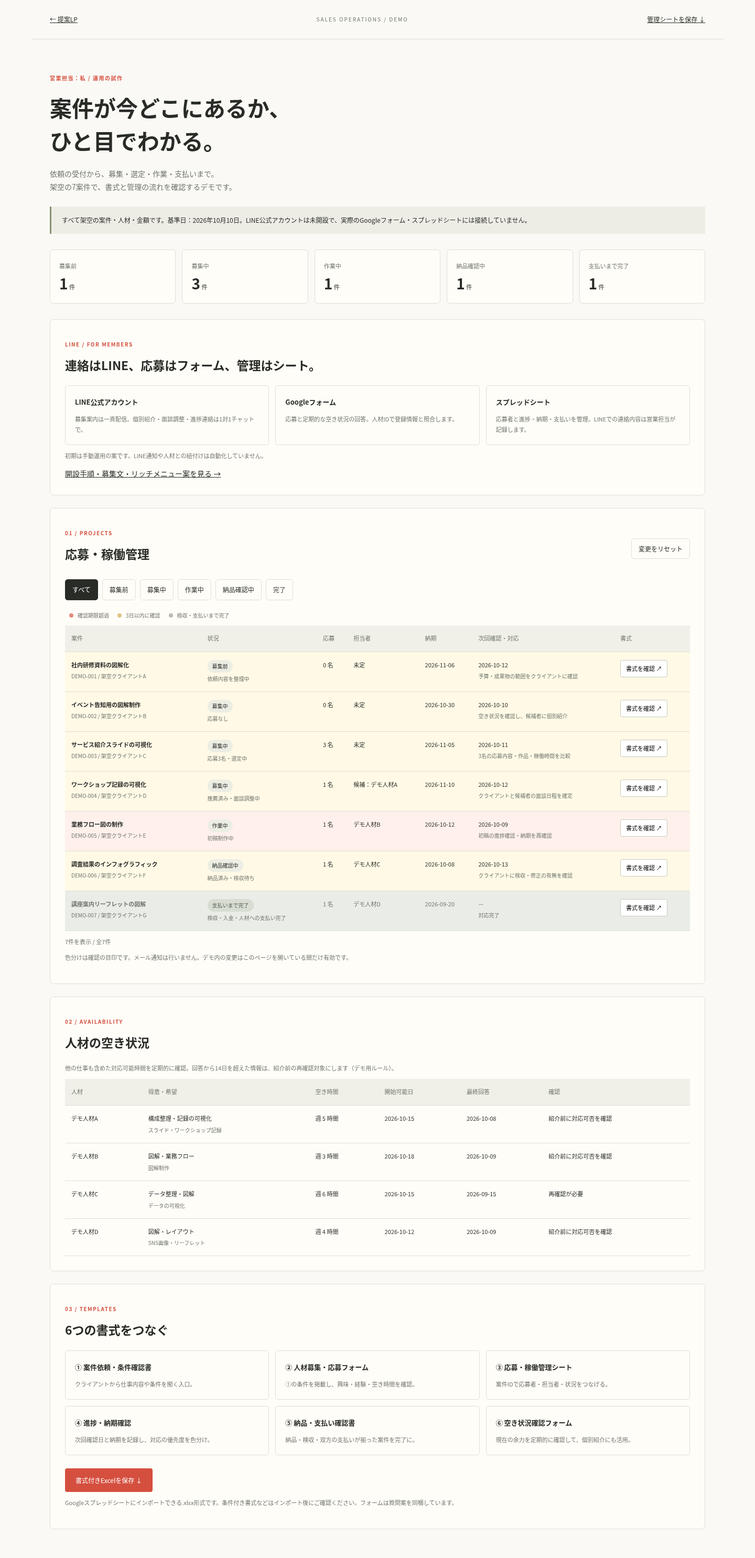
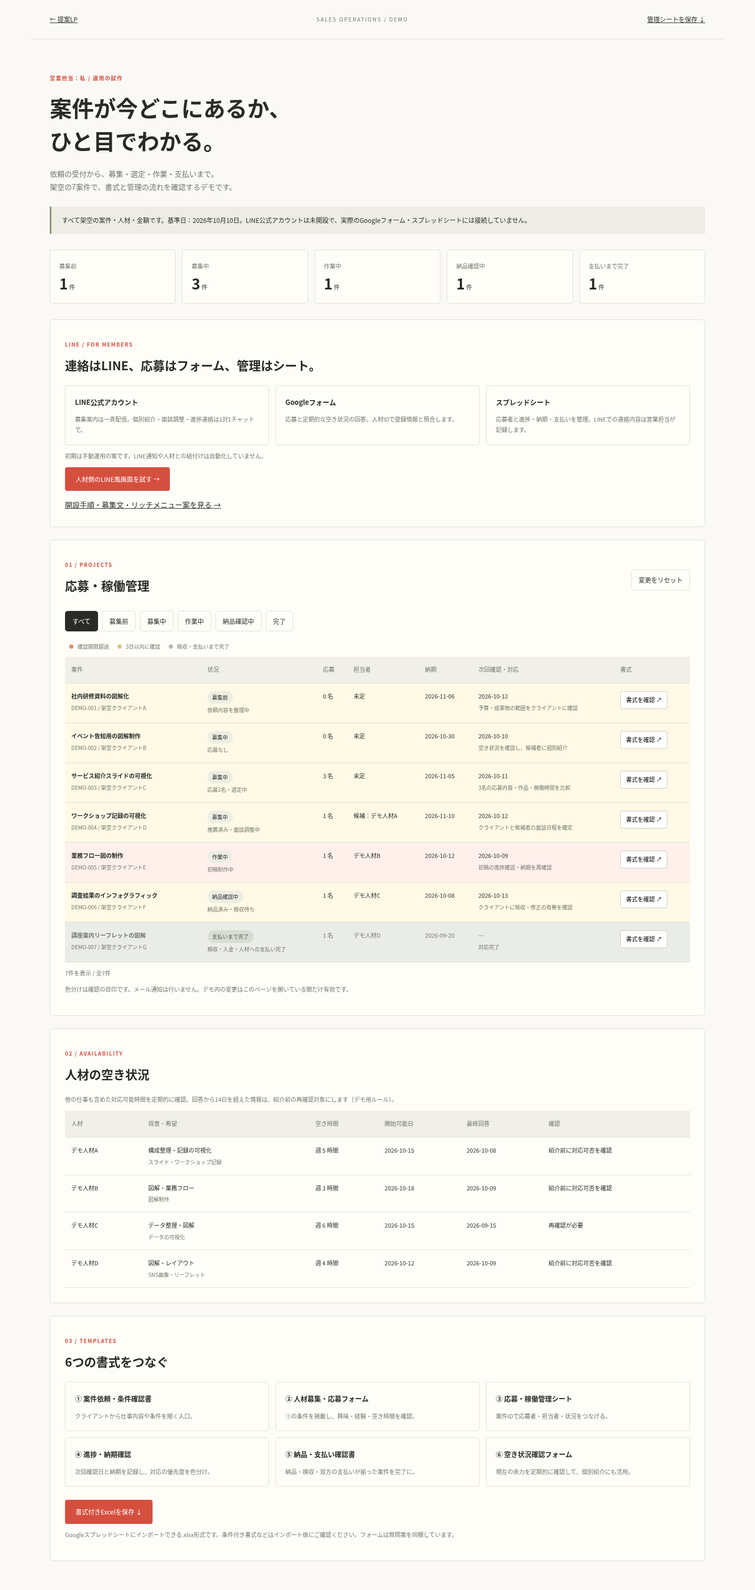
Add interactive LINE-style member conversation prototype

diff --git a/demo/line.js b/demo/line.js
@@ -1,0 +1,42 @@
+const messages = document.querySelector('#messages');
+const scroll = document.querySelector('#chat-scroll');
+const dialog = document.querySelector('#form-dialog');
+let currentScene='welcome';
+let applied=false;
+let interviewSelected=false;
+const escapeText=value=>String(value).replace(/[&<>"']/g,ch=>({'&':'&amp;','<':'&lt;','>':'&gt;','"':'&quot;',"'":'&#39;'}[ch]));
+const contexts={welcome:['友だち追加時の案内','窓口の役割を伝え、初回登録へ案内。リッチメニューから募集・空き状況更新・相談に進めます。'],recruit:['募集を見て、自分から応募','案件条件を確認し、フォームを開きます。デモでは応募後の受付案内までを固定文で再現します。'],interview:['営業担当が面談を調整','クライアントと人材の間に入り、日時・確認事項を調整します。候補日時のボタンを押してみてください。'],progress:['進捗・納期を個別に確認','営業担当がLINEで進捗を聞き、回答の要点を管理シートへ記録する想定です。'],payment:['納品と、支払い完了を共有','納品・検収・入金・人材への支払いを確認してから案件を完了にします。ここでは連絡文の例を表示します。']};
+function addMessage(html,outgoing=false){const element=document.createElement('div');element.className='message'+(outgoing?' outgoing':'');element.innerHTML=`${outgoing?'':'<span class="avatar" aria-hidden="true">✳</span>'}<div class="message-body">${outgoing?'':'<div class="sender">可視化のお仕事窓口</div>'}<div class="bubble">${html}</div><span class="timestamp">${outgoing?'デモ入力 · ':'固定の例 · '}9:41</span></div>`;messages.append(element);scroll.scrollTop=scroll.scrollHeight;}
+function jobMessage(){return '<span class="job-tag">募集の例 / DEMO-003</span><strong class="job-title">サービス紹介スライドの可視化</strong><p>紹介スライド8枚を、わかりやすく図解にするお仕事です。</p><p class="job-meta">必要スキル：構成整理・スライド制作<br>案件予算：60,000円（架空）<br>人材への報酬：相談して決定<br>納期：2026年11月5日<br>想定稼働：週5時間程度<br>応募締切：2026年10月14日</p><button data-action="apply">詳細を確認して、応募する ↗</button><p class="caution">導入前の募集文例です。本番配信前に人材への報酬・税・支払条件等を確定して掲載します。</p>';}
+function scene(name){currentScene=name;messages.replaceChildren();document.querySelectorAll('[data-scene]').forEach(b=>{b.classList.toggle('active',b.dataset.scene===name);b.setAttribute('aria-pressed',b.dataset.scene===name);});document.querySelector('#scene-context').innerHTML=`<strong>${contexts[name][0]}</strong>${contexts[name][1]}`;
+ if(name==='welcome'){addMessage('<p>友だち追加ありがとうございます！<br><strong>可視化のお仕事窓口</strong>です。</p><p>営業担当の私が、講座生のみなさんに案件の募集や個別のご連絡をお届けします。</p><p>興味のある案件があれば、Googleフォームからご応募ください。初めての方も、希望や経験を教えていただければと思います。</p><button data-action="register">初回登録フォームを開く ↗</button><p class="caution">応募は採用・契約を保証するものではありません。</p>');addMessage('<p>下のメニューから、募集や空き状況の更新を確認できます。</p><p>困ったことや気になることがあれば「お問い合わせ」からご相談ください。</p>');}
+ if(name==='recruit'){addMessage('<p>【お仕事募集の例】<br>興味のある案件に、フォームから手を挙げてください。</p>');addMessage(jobMessage());if(applied)addMessage('<p>このデモでは応募済みです。入力した内容はページ内だけで扱い、送信・永続保存はしていません。</p>');}
+ if(name==='interview'){interviewSelected=false;addMessage('<p>【DEMO-003 / 面談調整の例】<br>応募内容を確認し、クライアントへ推薦した後のご連絡です。</p><p>面談では、仕事内容・対応範囲・納期・報酬などを一緒に確認します。私が日程調整と進行を担当します。</p><p>オンラインで30分程度を想定しています。次の日時はいかがでしょうか？（日本時間）</p><div class="choices"><button data-action="slot" data-slot="10月16日（金）10:00">10月16日（金）10:00</button><button data-action="slot" data-slot="10月19日（月）14:00">10月19日（月）14:00</button><button data-action="slot" data-slot="別の日程を相談したい">別の日程を相談したい</button></div><p class="caution">面談は契約確定ではありません。クライアントとの調整後に日程を確定する想定です。</p>');}
+ if(name==='progress'){addMessage('<p>【DEMO-005 / 進捗確認の例】<br>業務フロー図の制作について、現在の進み具合はいかがでしょうか？</p><p>納期は10月12日の予定です。確認が必要なことや、遅れそうな点があれば教えてください。一緒に調整します。</p><div class="choices"><button data-action="progress" data-reply="予定どおり進んでいます。">予定どおりです</button><button data-action="progress" data-reply="進め方と納期について相談したいです。">相談したいことがあります</button></div>');}
+ if(name==='payment'){addMessage('<p>【DEMO-007 / 完了連絡の例】<br>リーフレットの図解制作、ありがとうございました。</p><p>納品とクライアントの検収を確認できました。</p>');addMessage('<p>続いて、クライアントからの入金と人材への支払いを確認しました。</p><p>管理シートでも案件を完了にし、グレー表示にしています。</p><p>次のお仕事紹介に向け、空き状況が変わった際は更新をお願いします。</p><button data-action="availability">空き状況を更新する ↗</button><p class="caution">架空の完了例です。実際の入金・送金は行っていません。</p>');}
+ scroll.scrollTop=0;
+}
+const input=(label,name,type='text',value='',required=true)=>`<label>${label}${required?'（必須）':''}<input name="${name}" type="${type}" value="${escapeText(value)}" ${required?'required':''} ${type==='number'?'min="0" max="168"':''}></label>`;
+function openForm(type){let body='';let title='';
+ if(type==='apply'){title='案件への応募';body='<div class="form-note">DEMO-003 / 紹介スライド8枚<br>案件予算60,000円（架空）・人材報酬は要相談<br>納期：2026年11月5日 / 週5時間程度<br>契約主体・修正範囲・税・支払条件は相談して決定。</div>'+input('人材ID（架空）','talentId','text','MEM-DEMO-001')+input('お名前（デモ名）','name','text','デモ人材A')+input('開始可能日','start','date','2026-10-15')+input('週あたり対応可能時間','hours','number','5')+'<label>応募理由・経験・参考作品の説明<textarea name="reason" rows="3" required placeholder="デモの内容を入力してください"></textarea></label><label class="check"><input type="checkbox" required>案件条件を確認しました。実際の契約には条件の確定と双方の合意が必要です。</label>';}
+ if(type==='register'){title='はじめての登録';body=input('お名前（デモ名）','name','text','デモ人材A')+input('LINE表示名（架空）','lineName','text','デモA')+input('連絡先（架空）','email','email','demo@example.com')+'<label>得意なこと・挑戦したい仕事<textarea name="skills" rows="3" placeholder="例：図解、スライド制作。実務は初めてです。"></textarea></label>'+input('開始可能日','start','date','2026-10-15')+input('週あたりの空き時間','hours','number','5');}
+ if(type==='availability'){title='空き状況の更新';body='<div class="form-note">他のお仕事を含めて、今対応できる余力を教えてください。他のクライアント名や案件内容は不要です。</div>'+input('人材ID（架空）','talentId','text','MEM-DEMO-001')+input('週あたりの空き時間（空きなしなら0）','hours','number','4')+input('開始できる日','start','date','2026-10-20')+'<label>希望する仕事・確認したいこと<textarea name="preference" rows="3"></textarea></label>';}
+ document.querySelector('#form-content').innerHTML=`<p class="eyebrow">GOOGLEフォームを想定したデモ</p><h2>${title}</h2><p class="form-note">個人情報は入力しないでください。この画面はGoogleフォームではなく、外部に送信しない入力例です。</p><form id="member-form" data-type="${type}">${body}<button class="primary">デモの回答を完了する</button></form>`;dialog.showModal();
+}
+function handle(action,button){if(action==='recruit'){scene('recruit');return;}if(['apply','register','availability'].includes(action)){openForm(action);return;}if(action==='consult'){addMessage(escapeText('相談したいです。'),true);addMessage('<p>ここに相談内容を送っていただく想定です。</p><p>営業担当が内容を確認して個別に返信します。下の入力欄でデモのメッセージを試せます。</p>');document.querySelector('#chat-input').focus();}
+ if(action==='slot'&&!interviewSelected){interviewSelected=true;addMessage(escapeText(button.dataset.slot)+'を希望します。',true);addMessage('<p>ご希望ありがとうございます。営業担当がクライアントと調整して、改めてご連絡する想定です。</p><p>このデモでは日程の予約や通知は行っていません。</p>');document.querySelectorAll('[data-action="slot"]').forEach(b=>b.disabled=true);}
+ if(action==='progress'){addMessage(escapeText(button.dataset.reply),true);addMessage(button.dataset.reply.includes('相談')?'<p>相談内容を聞いて、必要に応じてクライアントと調整します。下の入力欄から、デモの相談内容を入力できます。</p>':'<p>ありがとうございます。営業担当が進捗と次回確認日をシートに記録する想定です。</p>');}
+}
+document.querySelectorAll('[data-scene]').forEach(b=>b.addEventListener('click',()=>scene(b.dataset.scene)));
+document.querySelector('.phone').addEventListener('click',e=>{const b=e.target.closest('[data-action]');if(b)handle(b.dataset.action,b);});
+document.querySelector('#close-form').addEventListener('click',()=>dialog.close());
+document.querySelector('#form-content').addEventListener('submit',e=>{if(e.target.id!=='member-form')return;e.preventDefault();const values=Object.fromEntries(new FormData(e.target));const type=e.target.dataset.type;dialog.close();
+ if(type==='apply'){applied=true;addMessage(escapeText(values.name)+' / 案件DEMO-003への応募を入力しました。',true);addMessage('<p>応募後の受付案内の例です。営業担当が内容を確認して選定し、推薦・面談へ進む方に個別連絡します。</p><button data-action="interview-demo">面談調整の場面を見る →</button><p class="caution">応募内容は外部に送信されません。Googleフォームの回答とLINEの自動連携は別途設定が必要です。</p>');}
+ if(type==='register'){addMessage('デモの登録を入力しました。名前：'+escapeText(values.name),true);addMessage('<p>本人照合後に営業担当が人材IDをお伝えする例です。<br>デモ人材ID：<strong>MEM-DEMO-001</strong></p><p>このIDを応募・空き状況確認フォームにも記入し、登録情報と照合する想定です。実際の登録やID発行はしていません。</p><button data-action="recruit">募集中のお仕事を見る →</button>');}
+ if(type==='availability'){addMessage(`デモの空き状況：週${escapeText(values.hours)}時間 / ${escapeText(values.start)}から`,true);addMessage('<p>空き状況を受け付けた後の案内例です。営業担当がシートに回答日と対応可能時間を記録し、紹介前に再確認します。</p><p>この操作では実際の管理シートは更新されません。</p>');}
+});
+messages.addEventListener('click',e=>{if(e.target.closest('[data-action="interview-demo"]'))scene('interview');});
+document.querySelector('#chat-form').addEventListener('submit',e=>{e.preventDefault();const input=document.querySelector('#chat-input');const text=input.value.trim();if(!text)return;addMessage(escapeText(text),true);input.value='';addMessage('<p>メッセージ入力のデモです。実際の運用では、営業担当が確認して返信します。</p><p>ここで入力した内容は外部へ送信していません。</p>');});
+document.querySelector('#toggle-menu').addEventListener('click',()=>{const menu=document.querySelector('#rich-menu');menu.hidden=!menu.hidden;document.querySelector('#toggle-menu').setAttribute('aria-expanded',!menu.hidden);});
+document.querySelector('#reset').addEventListener('click',()=>{applied=false;interviewSelected=false;document.querySelector('#chat-input').value='';document.querySelector('#rich-menu').hidden=false;document.querySelector('#toggle-menu').setAttribute('aria-expanded','true');scene('welcome');});
+scene('welcome');

diff --git a/demo/index.html b/demo/index.html
@@ -1,1 +1,1 @@
-<!doctype html><html lang="ja"><head><meta charset="utf-8"><meta name="viewport" content="width=device-width,initial-scale=1"><title>営業運用デモ｜まりえもんへの提案</title><link rel="stylesheet" href="demo.css"></head><body><header><a href="../index.html">← 提案LP</a><span>SALES OPERATIONS / DEMO</span><a href="営業運用デモ.xlsx" download>管理シートを保存 ↓</a></header><main><p class="eyebrow">営業担当：私 / 運用の試作</p><h1>案件が今どこにあるか、<br>ひと目でわかる。</h1><p class="intro">依頼の受付から、募集・選定・作業・支払いまで。<br>架空の7案件で、書式と管理の流れを確認するデモです。</p><div class="notice">すべて架空の案件・人材・金額です。基準日：2026年10月10日。LINE公式アカウントは未開設で、実際のGoogleフォーム・スプレッドシートには接続していません。</div><div class="summary" id="summary"></div><section class="panel"><p class="eyebrow">LINE / FOR MEMBERS</p><h2>連絡はLINE、応募はフォーム、管理はシート。</h2><div class="template-grid"><article><b>LINE公式アカウント</b><p>募集案内は一斉配信。個別紹介・面談調整・進捗連絡は1対1チャットで。</p></article><article><b>Googleフォーム</b><p>応募と定期的な空き状況の回答。人材IDで登録情報と照合します。</p></article><article><b>スプレッドシート</b><p>応募者と進捗・納期・支払いを管理。LINEでの連絡内容は営業担当が記録します。</p></article></div><p class="muted">初期は手動運用の案です。LINE通知や人材との紐付けは自動化していません。</p><a href="LINE運用準備.md">開設手順・募集文・リッチメニュー案を見る →</a></section><section class="panel"><div class="panel-title"><div><p class="eyebrow">01 / PROJECTS</p><h2>応募・稼働管理</h2></div><button id="reset" class="secondary">変更をリセット</button></div><div class="filters" role="group" aria-label="案件の絞り込み"><button class="active" data-filter="すべて" aria-pressed="true">すべて</button><button data-filter="募集前" aria-pressed="false">募集前</button><button data-filter="募集中" aria-pressed="false">募集中</button><button data-filter="作業中" aria-pressed="false">作業中</button><button data-filter="納品確認中" aria-pressed="false">納品確認中</button><button data-filter="完了" aria-pressed="false">完了</button></div><p class="legend"><span class="dot red"></span>確認期限超過 <span class="dot yellow"></span>3日以内に確認 <span class="dot gray"></span>検収・支払いまで完了</p><div class="table-wrap"><table class="projects-table"><caption class="sr-only">架空の案件の応募・稼働状況</caption><thead><tr><th>案件</th><th>状況</th><th>応募</th><th>担当者</th><th>納期</th><th>次回確認・対応</th><th>書式</th></tr></thead><tbody id="projects"></tbody></table></div><p id="result-count" class="muted" role="status"></p><p class="muted">色分けは確認の目印です。メール通知は行いません。デモ内の変更はこのページを開いている間だけ有効です。</p></section><section class="panel" id="talent-panel"><p class="eyebrow">02 / AVAILABILITY</p><h2>人材の空き状況</h2><p class="muted">他の仕事も含めた対応可能時間を定期的に確認。回答から14日を超えた情報は、紹介前の再確認対象にします（デモ用ルール）。</p><div class="table-wrap"><table><caption class="sr-only">架空の人材の稼働可能状況</caption><thead><tr><th>人材</th><th>得意・希望</th><th>空き時間</th><th>開始可能日</th><th>最終回答</th><th>確認</th></tr></thead><tbody id="talents"></tbody></table></div></section><section class="panel"><p class="eyebrow">03 / TEMPLATES</p><h2>6つの書式をつなぐ</h2><div class="template-grid"><article><b>① 案件依頼・条件確認書</b><p>クライアントから仕事内容や条件を聞く入口。</p></article><article><b>② 人材募集・応募フォーム</b><p>①の条件を掲載し、興味・経験・空き時間を確認。</p></article><article><b>③ 応募・稼働管理シート</b><p>案件IDで応募者・担当者・状況をつなげる。</p></article><article><b>④ 進捗・納期確認</b><p>次回確認日と納期を記録し、対応の優先度を色分け。</p></article><article><b>⑤ 納品・支払い確認書</b><p>納品・検収・双方の支払いが揃った案件を完了に。</p></article><article><b>⑥ 空き状況確認フォーム</b><p>現在の余力を定期的に確認して、個別紹介にも活用。</p></article></div><a class="primary download" href="営業運用デモ.xlsx" download>書式付きExcelを保存 ↓</a><p class="muted">Googleスプレッドシートにインポートできる.xlsx形式です。条件付き書式などはインポート後にご確認ください。フォームは質問案を同梱しています。</p></section></main><dialog id="detail"><button id="close" aria-label="閉じる" class="close">×</button><p class="eyebrow" id="detail-id"></p><h2 id="detail-title"></h2><nav class="tabs" aria-label="書式の切り替え"><button class="active" data-tab="brief" aria-pressed="true">① 条件確認</button><button data-tab="apply" aria-pressed="false">② 応募</button><button data-tab="applicants" aria-pressed="false">③ 応募者</button><button data-tab="progress" aria-pressed="false">④ 進捗</button><button data-tab="payment" aria-pressed="false">⑤ 納品・支払</button><button data-tab="availability" aria-pressed="false">⑥ 空き状況</button></nav><div id="detail-content"></div><p id="feedback" role="status"></p></dialog><script src="data.js"></script><script src="demo.js"></script></body></html>
+<!doctype html><html lang="ja"><head><meta charset="utf-8"><meta name="viewport" content="width=device-width,initial-scale=1"><title>営業運用デモ｜まりえもんへの提案</title><link rel="stylesheet" href="demo.css"></head><body><header><a href="../index.html">← 提案LP</a><span>SALES OPERATIONS / DEMO</span><a href="営業運用デモ.xlsx" download>管理シートを保存 ↓</a></header><main><p class="eyebrow">営業担当：私 / 運用の試作</p><h1>案件が今どこにあるか、<br>ひと目でわかる。</h1><p class="intro">依頼の受付から、募集・選定・作業・支払いまで。<br>架空の7案件で、書式と管理の流れを確認するデモです。</p><div class="notice">すべて架空の案件・人材・金額です。基準日：2026年10月10日。LINE公式アカウントは未開設で、実際のGoogleフォーム・スプレッドシートには接続していません。</div><div class="summary" id="summary"></div><section class="panel"><p class="eyebrow">LINE / FOR MEMBERS</p><h2>連絡はLINE、応募はフォーム、管理はシート。</h2><div class="template-grid"><article><b>LINE公式アカウント</b><p>募集案内は一斉配信。個別紹介・面談調整・進捗連絡は1対1チャットで。</p></article><article><b>Googleフォーム</b><p>応募と定期的な空き状況の回答。人材IDで登録情報と照合します。</p></article><article><b>スプレッドシート</b><p>応募者と進捗・納期・支払いを管理。LINEでの連絡内容は営業担当が記録します。</p></article></div><p class="muted">初期は手動運用の案です。LINE通知や人材との紐付けは自動化していません。</p><a class="primary" href="line.html">人材側のLINE風画面を試す →</a><p></p><a href="LINE運用準備.md">開設手順・募集文・リッチメニュー案を見る →</a></section><section class="panel"><div class="panel-title"><div><p class="eyebrow">01 / PROJECTS</p><h2>応募・稼働管理</h2></div><button id="reset" class="secondary">変更をリセット</button></div><div class="filters" role="group" aria-label="案件の絞り込み"><button class="active" data-filter="すべて" aria-pressed="true">すべて</button><button data-filter="募集前" aria-pressed="false">募集前</button><button data-filter="募集中" aria-pressed="false">募集中</button><button data-filter="作業中" aria-pressed="false">作業中</button><button data-filter="納品確認中" aria-pressed="false">納品確認中</button><button data-filter="完了" aria-pressed="false">完了</button></div><p class="legend"><span class="dot red"></span>確認期限超過 <span class="dot yellow"></span>3日以内に確認 <span class="dot gray"></span>検収・支払いまで完了</p><div class="table-wrap"><table class="projects-table"><caption class="sr-only">架空の案件の応募・稼働状況</caption><thead><tr><th>案件</th><th>状況</th><th>応募</th><th>担当者</th><th>納期</th><th>次回確認・対応</th><th>書式</th></tr></thead><tbody id="projects"></tbody></table></div><p id="result-count" class="muted" role="status"></p><p class="muted">色分けは確認の目印です。メール通知は行いません。デモ内の変更はこのページを開いている間だけ有効です。</p></section><section class="panel" id="talent-panel"><p class="eyebrow">02 / AVAILABILITY</p><h2>人材の空き状況</h2><p class="muted">他の仕事も含めた対応可能時間を定期的に確認。回答から14日を超えた情報は、紹介前の再確認対象にします（デモ用ルール）。</p><div class="table-wrap"><table><caption class="sr-only">架空の人材の稼働可能状況</caption><thead><tr><th>人材</th><th>得意・希望</th><th>空き時間</th><th>開始可能日</th><th>最終回答</th><th>確認</th></tr></thead><tbody id="talents"></tbody></table></div></section><section class="panel"><p class="eyebrow">03 / TEMPLATES</p><h2>6つの書式をつなぐ</h2><div class="template-grid"><article><b>① 案件依頼・条件確認書</b><p>クライアントから仕事内容や条件を聞く入口。</p></article><article><b>② 人材募集・応募フォーム</b><p>①の条件を掲載し、興味・経験・空き時間を確認。</p></article><article><b>③ 応募・稼働管理シート</b><p>案件IDで応募者・担当者・状況をつなげる。</p></article><article><b>④ 進捗・納期確認</b><p>次回確認日と納期を記録し、対応の優先度を色分け。</p></article><article><b>⑤ 納品・支払い確認書</b><p>納品・検収・双方の支払いが揃った案件を完了に。</p></article><article><b>⑥ 空き状況確認フォーム</b><p>現在の余力を定期的に確認して、個別紹介にも活用。</p></article></div><a class="primary download" href="営業運用デモ.xlsx" download>書式付きExcelを保存 ↓</a><p class="muted">Googleスプレッドシートにインポートできる.xlsx形式です。条件付き書式などはインポート後にご確認ください。フォームは質問案を同梱しています。</p></section></main><dialog id="detail"><button id="close" aria-label="閉じる" class="close">×</button><p class="eyebrow" id="detail-id"></p><h2 id="detail-title"></h2><nav class="tabs" aria-label="書式の切り替え"><button class="active" data-tab="brief" aria-pressed="true">① 条件確認</button><button data-tab="apply" aria-pressed="false">② 応募</button><button data-tab="applicants" aria-pressed="false">③ 応募者</button><button data-tab="progress" aria-pressed="false">④ 進捗</button><button data-tab="payment" aria-pressed="false">⑤ 納品・支払</button><button data-tab="availability" aria-pressed="false">⑥ 空き状況</button></nav><div id="detail-content"></div><p id="feedback" role="status"></p></dialog><script src="data.js"></script><script src="demo.js"></script></body></html>

diff --git a/demo/line.css b/demo/line.css
@@ -1,0 +1,1 @@
+:root{--paper:#faf9f5;--ink:#292b27;--muted:#74796f;--line:#dedfd5;--green:#06a75a;--red:#d54f3f}*{box-sizing:border-box}body{margin:0;background:var(--paper);color:var(--ink);font-family:'Noto Sans JP',sans-serif;font-size:13px;line-height:1.8}button,input,select,textarea{font:inherit}button{cursor:pointer}a{color:inherit}button:focus-visible,a:focus-visible,input:focus-visible,select:focus-visible,textarea:focus-visible{outline:3px solid #d54f3f;outline-offset:3px}.page-header{max-width:1200px;margin:auto;padding:25px 40px;display:flex;align-items:center;justify-content:space-between;border-bottom:1px solid var(--line);font-size:11px}.page-header>span{font-size:9px;letter-spacing:2px;color:var(--muted)}.page-header button{border:0;background:none;color:var(--muted);font-size:11px}main{max-width:1120px;margin:auto;display:grid;grid-template-columns:1fr 420px;gap:95px;padding:55px 40px}.eyebrow{color:var(--red);font-size:11px;letter-spacing:1.5px;font-weight:600}h1{font-size:36px;line-height:1.65;letter-spacing:-1px;margin:18px 0}.lead{color:var(--muted);line-height:2.1}.demo-note{display:flex;gap:14px;border-top:1px solid var(--line);border-bottom:1px solid var(--line);padding:18px 0;margin:25px 0}.demo-note>span{font-size:9px;letter-spacing:1px;background:#eceee5;border-radius:3px;align-self:flex-start;padding:3px 6px}.demo-note p{font-size:11px;color:var(--muted);margin:0}.explanation h2{font-size:13px;margin:20px 0 10px}.scenarios{display:flex;flex-direction:column;gap:7px}.scenarios button{text-align:left;border:1px solid var(--line);border-radius:5px;background:#fffdf8;padding:12px 15px;font-size:12px;display:flex;gap:16px;align-items:center}.scenarios button>span{font-size:10px;color:var(--muted)}.scenarios button>b{margin-left:auto;font-weight:400}.scenarios button.active{background:#ecf2e7;border-color:#96ae82}.scenarios button.active>span{color:#5a793f}.context{font-size:12px;background:#eeede5;padding:15px 18px;margin-top:20px}.context strong{display:block;font-size:11px;margin-bottom:5px}.small{font-size:10px;color:var(--muted);margin-top:18px}.manual-link{font-size:11px}.phone-area{align-self:start}.phone{max-width:390px;margin:auto;border:7px solid #252925;border-radius:36px;overflow:hidden;background:white;box-shadow:0 20px 60px #2e33251a;height:780px;display:flex;flex-direction:column}.status-bar{display:flex;justify-content:space-between;padding:10px 23px 7px;background:#f5f6f7;font-size:11px;height:35px}.chat-header{display:flex;align-items:center;padding:10px 13px;background:#f5f6f7;gap:12px;border-bottom:1px solid #cdd3da;min-height:62px}.back-mark{font-size:34px;line-height:1}.header-name strong{display:block;font-size:13px}.header-name small{display:block;font-size:9px;color:#7b837c}.header-demo{margin-left:auto;font-size:8px;letter-spacing:.8px;border:1px solid #c3ccc0;padding:2px 5px;border-radius:3px}.chat-scroll{flex:1;overflow-y:auto;background:#8aa4c2;padding:15px 10px;scroll-behavior:smooth;min-height:0}.chat-date{color:white;background:#6d839e99;font-size:9px;padding:3px 10px;width:max-content;margin:0 auto 20px;border-radius:20px}.message{display:flex;gap:7px;align-items:flex-start;margin-bottom:17px}.avatar{display:flex;align-items:center;justify-content:center;width:28px;height:28px;background:#edf3e5;color:#748954;border-radius:50%;font-size:20px;flex-shrink:0}.message-body{min-width:0;max-width:265px}.sender{font-size:9px;color:#fff;margin-bottom:3px}.bubble{background:white;border-radius:0 14px 14px 14px;padding:12px 13px;font-size:11px;line-height:1.9;overflow-wrap:anywhere}.bubble p{margin:0 0 10px}.bubble p:last-child{margin:0}.bubble strong{font-size:12px}.timestamp{display:block;font-size:8px;color:#fff;margin-top:4px}.message.outgoing{justify-content:flex-end;gap:0}.outgoing .bubble{background:#9ae978;border-radius:14px 0 14px 14px}.outgoing .timestamp{text-align:right}.bubble button{width:100%;background:white;border:1px solid #cbd2c4;border-radius:4px;color:#467236;padding:9px 8px;font-size:11px;font-weight:600;margin-top:7px}.bubble button:hover{background:#f2f6ef}.job-tag{font-size:9px;display:inline-block;padding:2px 7px;color:#5b7049;background:#edf2e7;border-radius:3px;margin-bottom:8px}.job-title{display:block;margin-bottom:9px;font-size:13px!important}.job-meta{border-top:1px solid #eee;padding-top:8px}.bubble .caution{font-size:9px;color:#7a8076;margin-top:9px}.choices{display:flex;flex-direction:column;gap:3px}.choices button{margin-top:3px}.composer{display:flex;align-items:center;gap:9px;padding:10px;background:#f7f8f9;border-top:1px solid #e1e5e6;flex-shrink:0}.composer>button:first-child{border:0;background:none;font-size:22px;color:#6c7479;padding:0 3px}.composer input{min-width:0;flex:1;border:1px solid #e0e4e5;border-radius:18px;padding:8px 12px;font-size:10px;background:white}.send{border:0;border-radius:50%;width:29px;height:29px;background:#06a75a;color:white;font-size:20px;line-height:1}.rich-menu{display:grid;grid-template-columns:repeat(3,1fr);background:#f1f3e9;flex-shrink:0}.rich-menu[hidden]{display:none}.rich-menu button{border:0;border-right:1px solid #d8dfcd;background:none;padding:15px 4px;line-height:1.5;color:#445638}.rich-menu button:last-child{border-right:0}.rich-menu button>span{font-size:25px;line-height:1.1;display:block;color:#829a68;margin-bottom:7px}.rich-menu b{display:block;font-size:10px}.rich-menu small{font-size:8px;color:#7b886e}.home-bar{padding:8px 0;background:#f1f3e9;text-align:center;height:20px;flex-shrink:0}.home-bar>span{display:block;width:110px;height:4px;background:#252925;border-radius:4px;margin:auto}.phone-caption{font-size:9px;text-align:center;color:var(--muted);margin-top:15px}dialog{border:1px solid var(--line);border-radius:12px;max-width:530px;width:calc(100% - 30px);max-height:90vh;padding:30px;background:var(--paper);color:var(--ink)}dialog::backdrop{background:#27342680;backdrop-filter:blur(3px)}.close{position:absolute;right:14px;top:8px;background:none;border:0;font-size:27px}dialog h2{font-size:21px;line-height:1.6;margin:12px 0}dialog .form-note{background:#eeede5;padding:12px;font-size:10px;color:var(--muted)}dialog label{display:block;font-size:11px;margin-top:15px}dialog input,dialog select,dialog textarea{display:block;width:100%;padding:10px;border:1px solid #cbd2c4;border-radius:4px;margin-top:5px;background:white;color:var(--ink);font-size:12px}dialog textarea{resize:vertical}dialog .check{display:flex;gap:10px;align-items:flex-start}dialog .check input{width:17px;height:17px;margin:4px 0 0;flex-shrink:0}.primary{border:0;background:#568145;border-radius:4px;color:white;padding:12px 18px;font-size:12px;margin-top:20px}.form-error{color:#a03a2b;font-size:11px}.sr-only{position:absolute;width:1px;height:1px;padding:0;margin:-1px;overflow:hidden;clip:rect(0,0,0,0);white-space:nowrap;border:0}@media(max-width:850px){main{gap:35px;padding:40px 25px;grid-template-columns:1fr 360px}h1{font-size:29px}.page-header{padding:20px 25px}.phone{height:760px}.message-body{max-width:245px}}@media(max-width:650px){.page-header{padding:17px 20px}.page-header>span{display:none}main{display:flex;flex-direction:column;padding:25px 18px;gap:25px}.explanation h1{font-size:28px;margin:12px 0}.lead{font-size:12px}.demo-note{margin:20px 0;padding:13px 0}.scenarios{flex-direction:row;flex-wrap:wrap;gap:6px}.scenarios button{padding:9px 10px;font-size:10px;gap:6px;flex-grow:1}.scenarios button b{display:none}.context{margin-top:15px;font-size:11px}.explanation .small{font-size:9px}.phone-area{align-self:stretch}.phone{height:min(790px,94svh);min-height:580px;width:100%;border-width:5px;border-radius:29px}.message-body{max-width:calc(100% - 42px)}.phone-caption{font-size:9px}.bubble{font-size:11px}.manual-link{font-size:10px}}@media(prefers-reduced-motion:reduce){.chat-scroll{scroll-behavior:auto}}

diff --git a/index.html b/index.html
@@ -2,7 +2,7 @@
 <html lang="ja">
 <head><meta charset="UTF-8"><meta name="viewport" content="width=device-width, initial-scale=1"><meta name="description" content="まりえもんに集まる仕事と、可視化を学ぶ講座生をつなぐ。営業担当として募集・推薦・面談調整を担う、具体的な営業運用のご提案。"><title>仕事を、つなぐ。｜まりえもん 案件マッチングのご提案</title><link rel="stylesheet" href="style.css"></head>
 <body>
-<header class="header"><a class="brand" href="#"><span class="brand-icon">m<span>↗</span></span><span>marie.mon <small>仕事を、つなぐ。</small></span></a><nav aria-label="メインナビゲーション"><a href="#concept">提案について</a><a href="#flow">仕組み</a><a href="demo/index.html">運用デモ</a><a class="nav-cta" href="#discussion">まずは相談する <span>↗</span></a></nav></header>
+<header class="header"><a class="brand" href="#"><span class="brand-icon">m<span>↗</span></span><span>marie.mon <small>仕事を、つなぐ。</small></span></a><nav aria-label="メインナビゲーション"><a href="#concept">提案について</a><a href="#flow">仕組み</a><a href="demo/index.html">運用デモ</a><a href="demo/line.html">LINE画面</a><a class="nav-cta" href="#discussion">まずは相談する <span>↗</span></a></nav></header>
 <main>
 <section class="hero"><div class="hero-copy"><p class="eyebrow"><span></span> まりえもんへのご提案</p><h1>届いた依頼を、<br>私が<span class="accent">つなぎます。</span></h1><p class="hero-lead">まりえもんに届く依頼を、私に回していただく。<br>講座生への募集、クライアントへの推薦、面談調整。<br>その営業担当を、私が担えそうだと考えています。</p><a class="button" href="#concept">提案の全体像を見る <span>↓</span></a><p class="hero-note">Googleフォームを活用した営業運用のご提案</p></div><div class="hero-art" role="img" aria-label="まりえもんから引き継いだ依頼を、営業担当の私が講座生につなぐイメージ"><div class="art-grid"></div><span class="art-label">A NEW WAY TO CONNECT</span><div class="orbit orbit-one"></div><div class="orbit orbit-two"></div><div class="art-node client"><span class="mini-icon">▤</span><small>CLIENT</small><strong>まりえもんへの依頼</strong><span class="node-foot">クライアントから届く仕事</span></div><div class="art-center"><span class="center-flower">✳</span><strong>営業担当：私</strong><span>募集・推薦・面談調整</span></div><div class="art-node student"><span class="mini-icon">✧</span><small>MEMBERS</small><strong>講座生に募集</strong><span class="node-foot">Googleフォームで応募</span></div><span class="art-plus plus-one">＋</span><span class="art-plus plus-two">＋</span><span class="art-caption">ひとつの依頼から、広がるチャンス。</span><span class="art-arrow">↗</span></div><div class="hero-bottom"><span>人と仕事が、自然にめぐる仕組みへ。</span><a href="#concept">SCROLL TO EXPLORE <span>↓</span></a></div></section>
 <section id="concept" class="section concept"><div class="section-label">01 — MY PROPOSAL <span>私からの提案</span></div><div class="split"><h2>依頼を引き継ぎ、<br>人と仕事をつなぐ営業を。</h2><div><p>まりえもんのもとに集まる依頼の中には、今の体制では受けきれず、見送っている案件もあります。一方で、講座には学んだ可視化のスキルを仕事に活かしたい人たちがいます。</p><p>そこで、届いた依頼を私に引き継いでいただき、講座生の募集から応募者の選定・推薦、面談の進行までを私が担当する方法を提案します。</p><p>まずは既に届いている依頼を対象に、「依頼はあるのに、受けられない」を減らす運用を考えたいです。</p></div></div><div class="problem-cards"><article><span class="card-number">01</span><h3>まりえもんが受け取る</h3><p>クライアントから届いた依頼を、<br>営業担当の私へ引き継ぐ。</p></article><article class="highlight"><span class="card-number">02</span><h3>私が営業窓口を担う <span>↗</span></h3><p>募集・選定・推薦・面談調整を、<br>一つの窓口で進める。</p></article><article><span class="card-number">03</span><h3>講座生が応募する</h3><p>興味のある案件に自分から応募し、<br>仕事に挑戦するきっかけに。</p></article></div></section>

diff --git a/demo/line.html b/demo/line.html
@@ -1,0 +1,1 @@
+<!doctype html><html lang="ja"><head><meta charset="utf-8"><meta name="viewport" content="width=device-width,initial-scale=1"><title>人材用LINE画面デモ｜可視化のお仕事窓口</title><link rel="stylesheet" href="line.css"></head><body><header class="page-header"><a href="index.html">← 案件管理デモ</a><span>MEMBER EXPERIENCE / PROTOTYPE</span><button id="reset">最初から見る ↻</button></header><main><section class="explanation"><p class="eyebrow">人材側の画面を体験する</p><h1>いつものLINEから、<br>お仕事に手を挙げる。</h1><p class="lead">募集を見つける。フォームで応募する。<br>営業担当と、面談や進行について話す。<br>その流れを、画面で確かめるデモです。</p><div class="demo-note"><span>DEMO</span><p>LINE風の提案用画面です。LINE公式アカウント・Googleフォームには接続していません。すべて架空の内容で、外部への送信は行いません。</p></div><h2>見たい場面を選ぶ</h2><div class="scenarios" role="group" aria-label="トーク場面"><button data-scene="welcome" class="active" aria-pressed="true"><span>01</span>友だち追加・案内 <b>↗</b></button><button data-scene="recruit" aria-pressed="false"><span>02</span>案件募集・応募 <b>↗</b></button><button data-scene="interview" aria-pressed="false"><span>03</span>面談の日程調整 <b>↗</b></button><button data-scene="progress" aria-pressed="false"><span>04</span>進捗・納期の確認 <b>↗</b></button><button data-scene="payment" aria-pressed="false"><span>05</span>納品・支払いの連絡 <b>↗</b></button></div><div class="context" id="scene-context"></div><p class="small">初期運用は手動を想定。画面内の返信は操作例のための固定文です。アカウント名・報酬・運用ルールは今後相談して決めます。</p><a class="manual-link" href="LINE運用準備.md">開設手順・運用マニュアル →</a></section><section class="phone-area" aria-label="人材向けLINE風トーク画面"><div class="phone"><div class="status-bar" aria-hidden="true"><b>9:41</b><span>▮▮▮　◔　▰</span></div><div class="chat-header"><span class="back-mark" aria-hidden="true">‹</span><div class="header-name"><strong>可視化のお仕事窓口</strong><small>提案用デモ・未開設</small></div><span class="header-demo">DEMO</span></div><div class="chat-scroll" id="chat-scroll"><div class="chat-date">2026年10月10日・架空の例</div><div id="messages" aria-live="polite" aria-relevant="additions"></div></div><form id="chat-form" class="composer"><button type="button" id="toggle-menu" aria-label="リッチメニューを開閉" aria-expanded="true">☰</button><label class="sr-only" for="chat-input">デモのメッセージ</label><input id="chat-input" placeholder="デモのメッセージを入力" maxlength="500" autocomplete="off"><button type="submit" class="send" aria-label="デモメッセージを追加">↑</button></form><div class="rich-menu" id="rich-menu"><button data-action="recruit"><span>▤</span><b>募集中のお仕事</b><small>案件を見て応募</small></button><button data-action="availability"><span>◷</span><b>空き状況を更新</b><small>今の余力を伝える</small></button><button data-action="consult"><span>☏</span><b>お問い合わせ</b><small>営業担当に相談</small></button></div><div class="home-bar" aria-hidden="true"><span></span></div></div><p class="phone-caption">画面内のボタンを押して試せます。実際の送信はしません。</p></section></main><dialog id="form-dialog"><button class="close" id="close-form" aria-label="閉じる">×</button><div id="form-content"></div></dialog><script src="line.js"></script></body></html>
